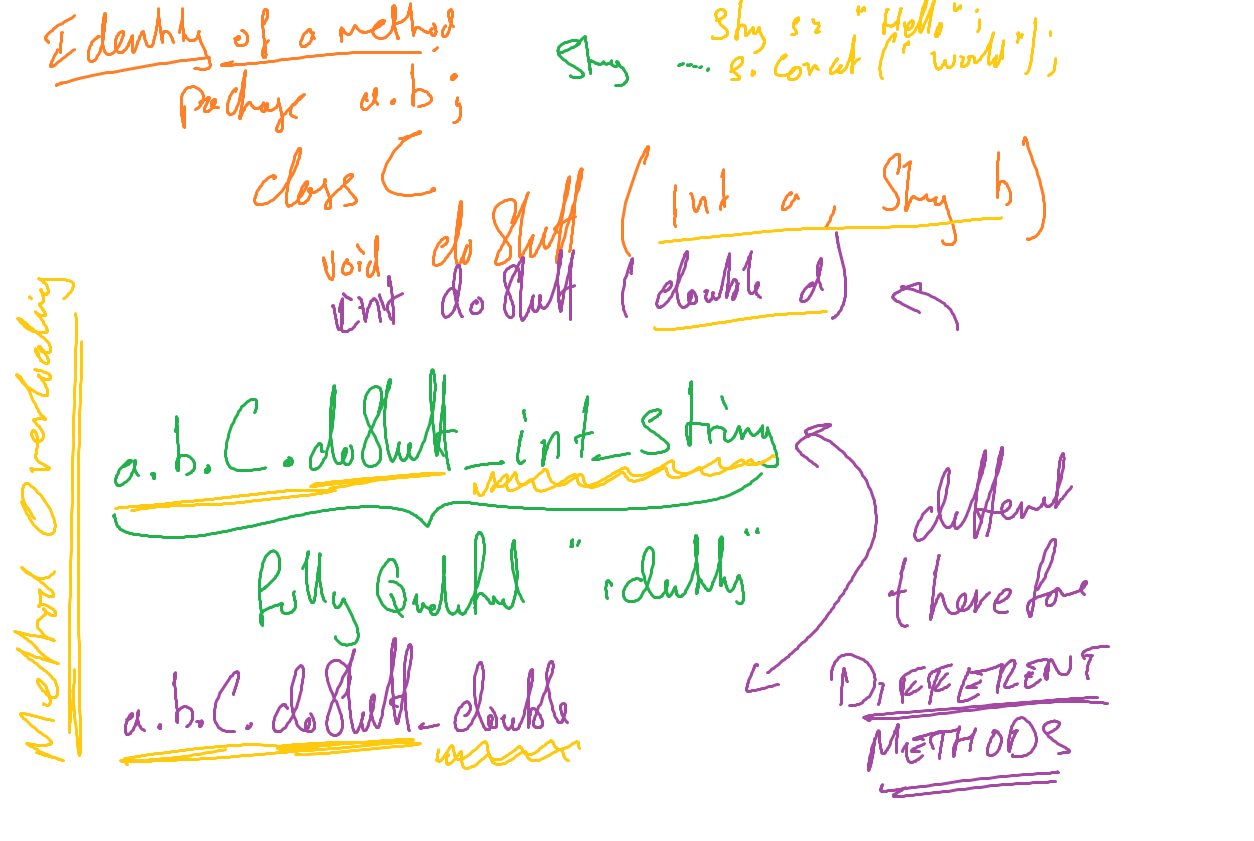
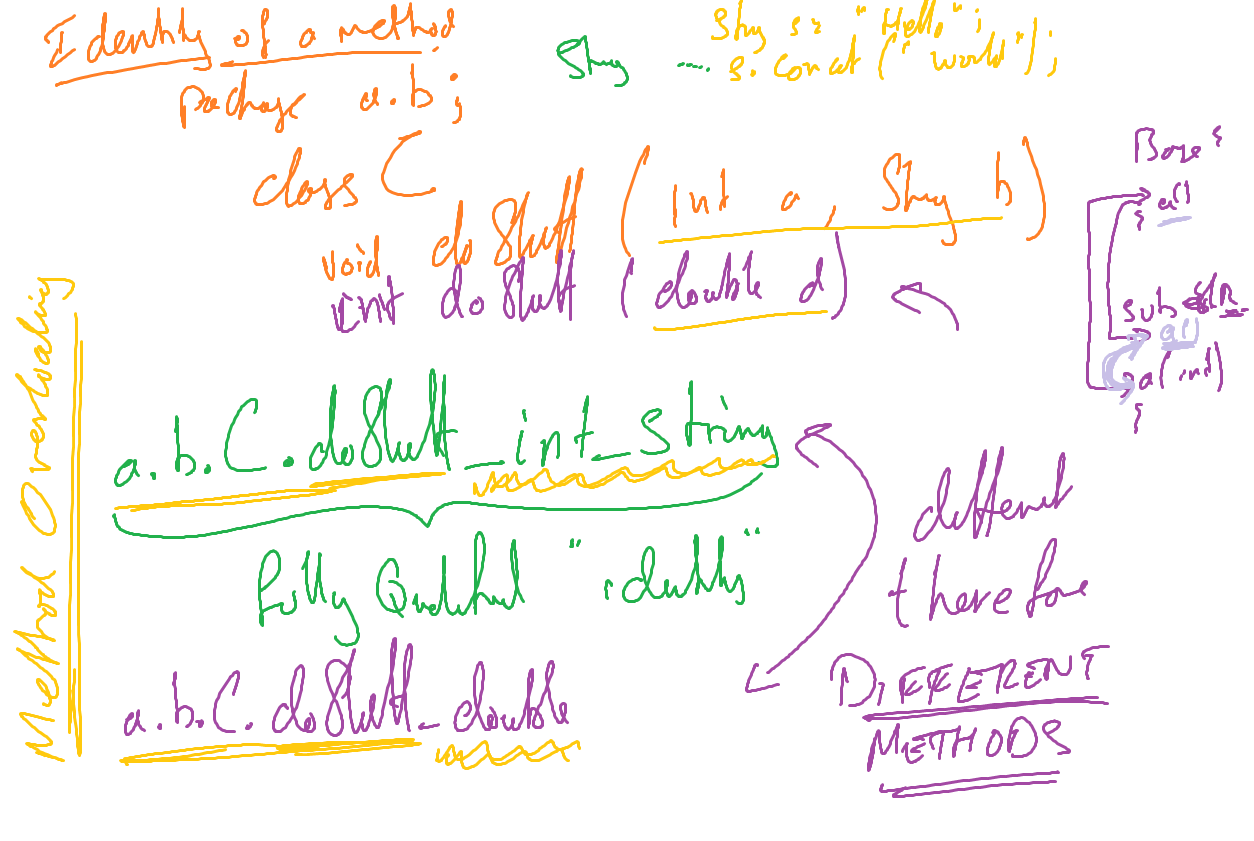
Day 2, mid-break

Changed region(s): [[0.8708, 0.3401, 0.9952, 0.4946], [0.8708, 0.2164, 0.9641, 0.2782], [0.9019, 0.1546, 0.9641, 0.1855]]

diff --git a/src/main/java/inhertance/Q3.java b/src/main/java/inhertance/Q3.java
@@ -1,0 +1,23 @@
+package inhertance;
+class Base {
+  private void doBaseStuff() {
+    System.out.println("doBaseStuff");
+  }
+}
+
+class Sub extends Base {
+//  @Override
+  void doBaseStuff() {
+    System.out.println("doSubStuff");
+  }
+//  abstract void doAbsStuff();
+  void doOtherStuff() {
+    System.out.println("doOtherStuff");
+  }
+}
+public class Q3 {
+  public static void main(String[] args) {
+    Base b = new Sub();
+    b.equals(null);
+  }
+}
